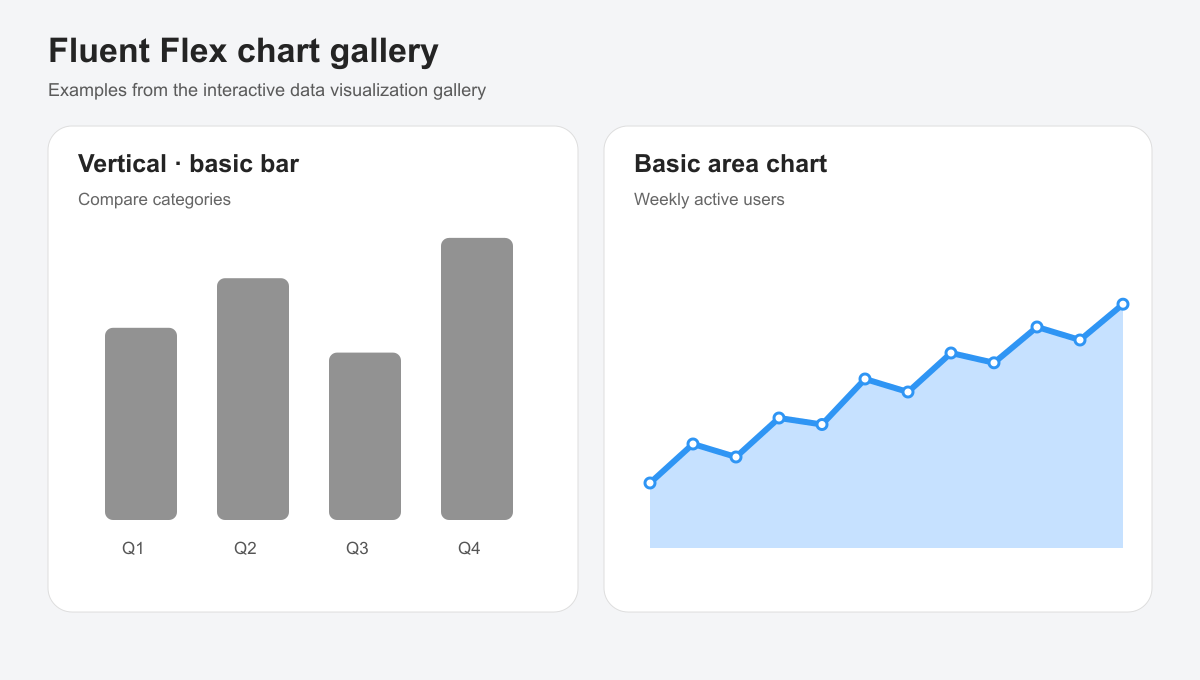
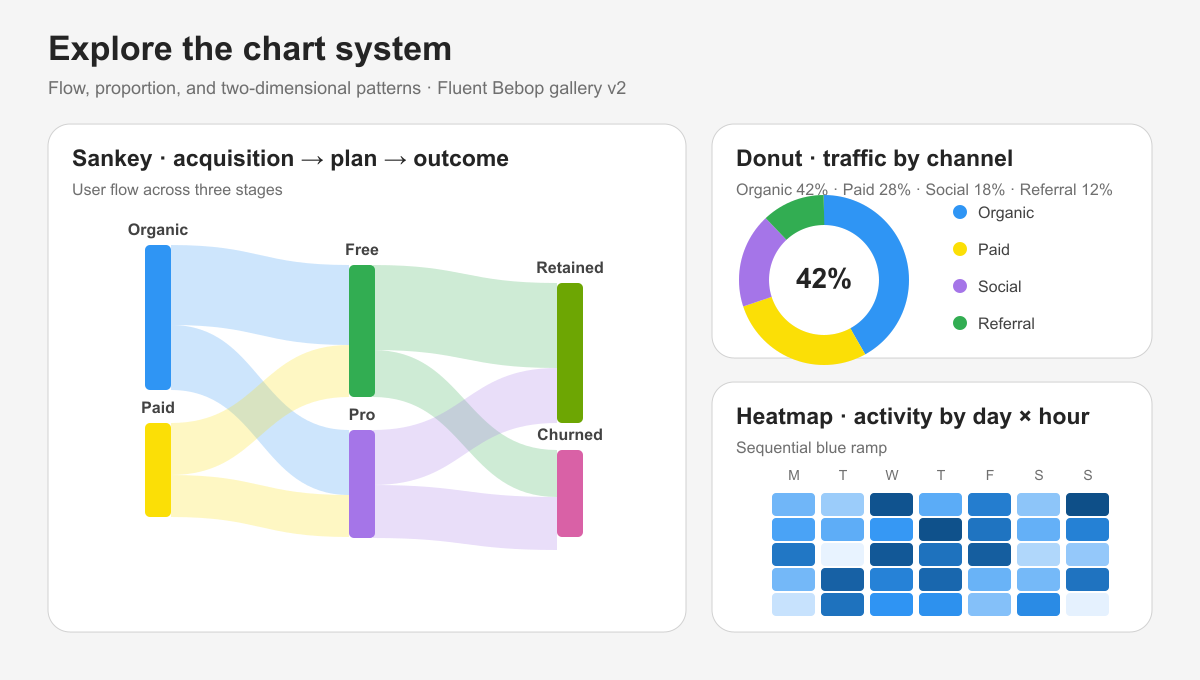
feat(portfolio): show richer dataviz gallery examples

diff --git a/app/src/data/project-stories.ts b/app/src/data/project-stories.ts
@@ -21,7 +21,7 @@ export const projectStories: Record<string, ProjectStory> = {
       },
       {
         "title": "Principles that travel across chart types",
-        "body": "The plugin starts with shared rules for corner radius, typography, density, and color with patterns. It connects those rules to chart-specific guidance, from bars and lines to heatmaps, Sankey diagrams, axes, legends, and callouts. These bar and area examples come from the HTML galleries.",
+        "body": "The plugin starts with shared rules for corner radius, typography, density, and color with patterns. It connects those rules to chart-specific guidance, from bars and lines to heatmaps, Sankey diagrams, axes, legends, and callouts. These Sankey, donut, and heatmap examples come from the Bebop gallery.",
         "media": ["img/portfolio/dataviz/gallery-examples.png"]
       },
       {
@@ -31,7 +31,7 @@ export const projectStories: Record<string, ProjectStory> = {
     ],
     "captions": {
       "img/portfolio/dataviz/coffee-crawl.png": "The walkthrough's Seattle coffee crawl brings area, donut, heatmap, and bar charts together.",
-      "img/portfolio/dataviz/gallery-examples.png": "Bar and area examples use chart values from the interactive HTML galleries."
+      "img/portfolio/dataviz/gallery-examples.png": "Flow, proportion, and two-dimensional patterns from the Bebop data visualization gallery."
     }
   },
   "genui-bebop": {

diff --git a/app/src/data/portfolio-projects.ts b/app/src/data/portfolio-projects.ts
@@ -15,7 +15,7 @@ export const portfolioProjects = [
     ],
     "images": [
       { "src": "img/portfolio/dataviz/coffee-crawl.png", "alt": "Coffee crawl chart examples from the dataviz walkthrough: area, donut, heatmap, and bar" },
-      { "src": "img/portfolio/dataviz/gallery-examples.png", "alt": "Bar and area chart examples based on the Fluent data visualization gallery" }
+      { "src": "img/portfolio/dataviz/gallery-examples.png", "alt": "Sankey, donut, and heatmap examples from the Fluent Bebop data visualization gallery" }
     ],
     "links": [
       ["/dataviz/walkthrough.html", "Explore the five-minute walkthrough"],
